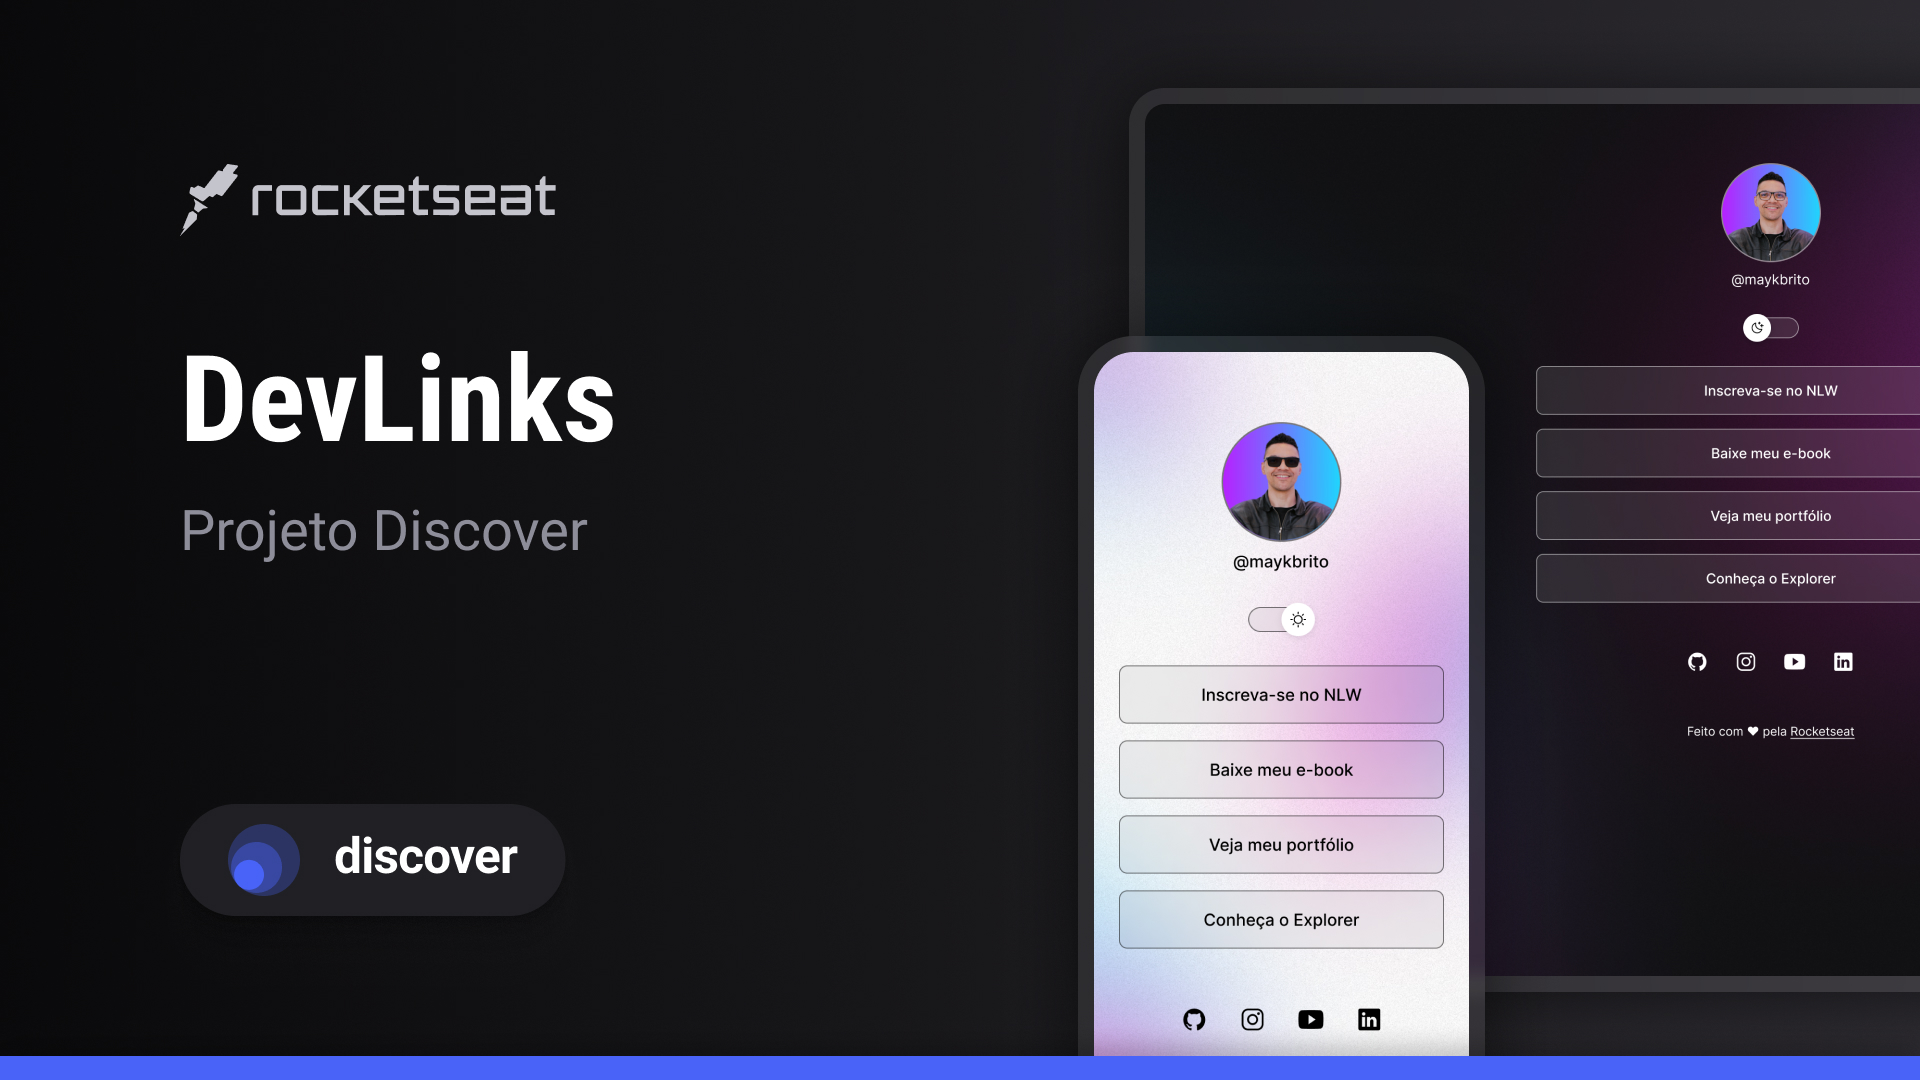
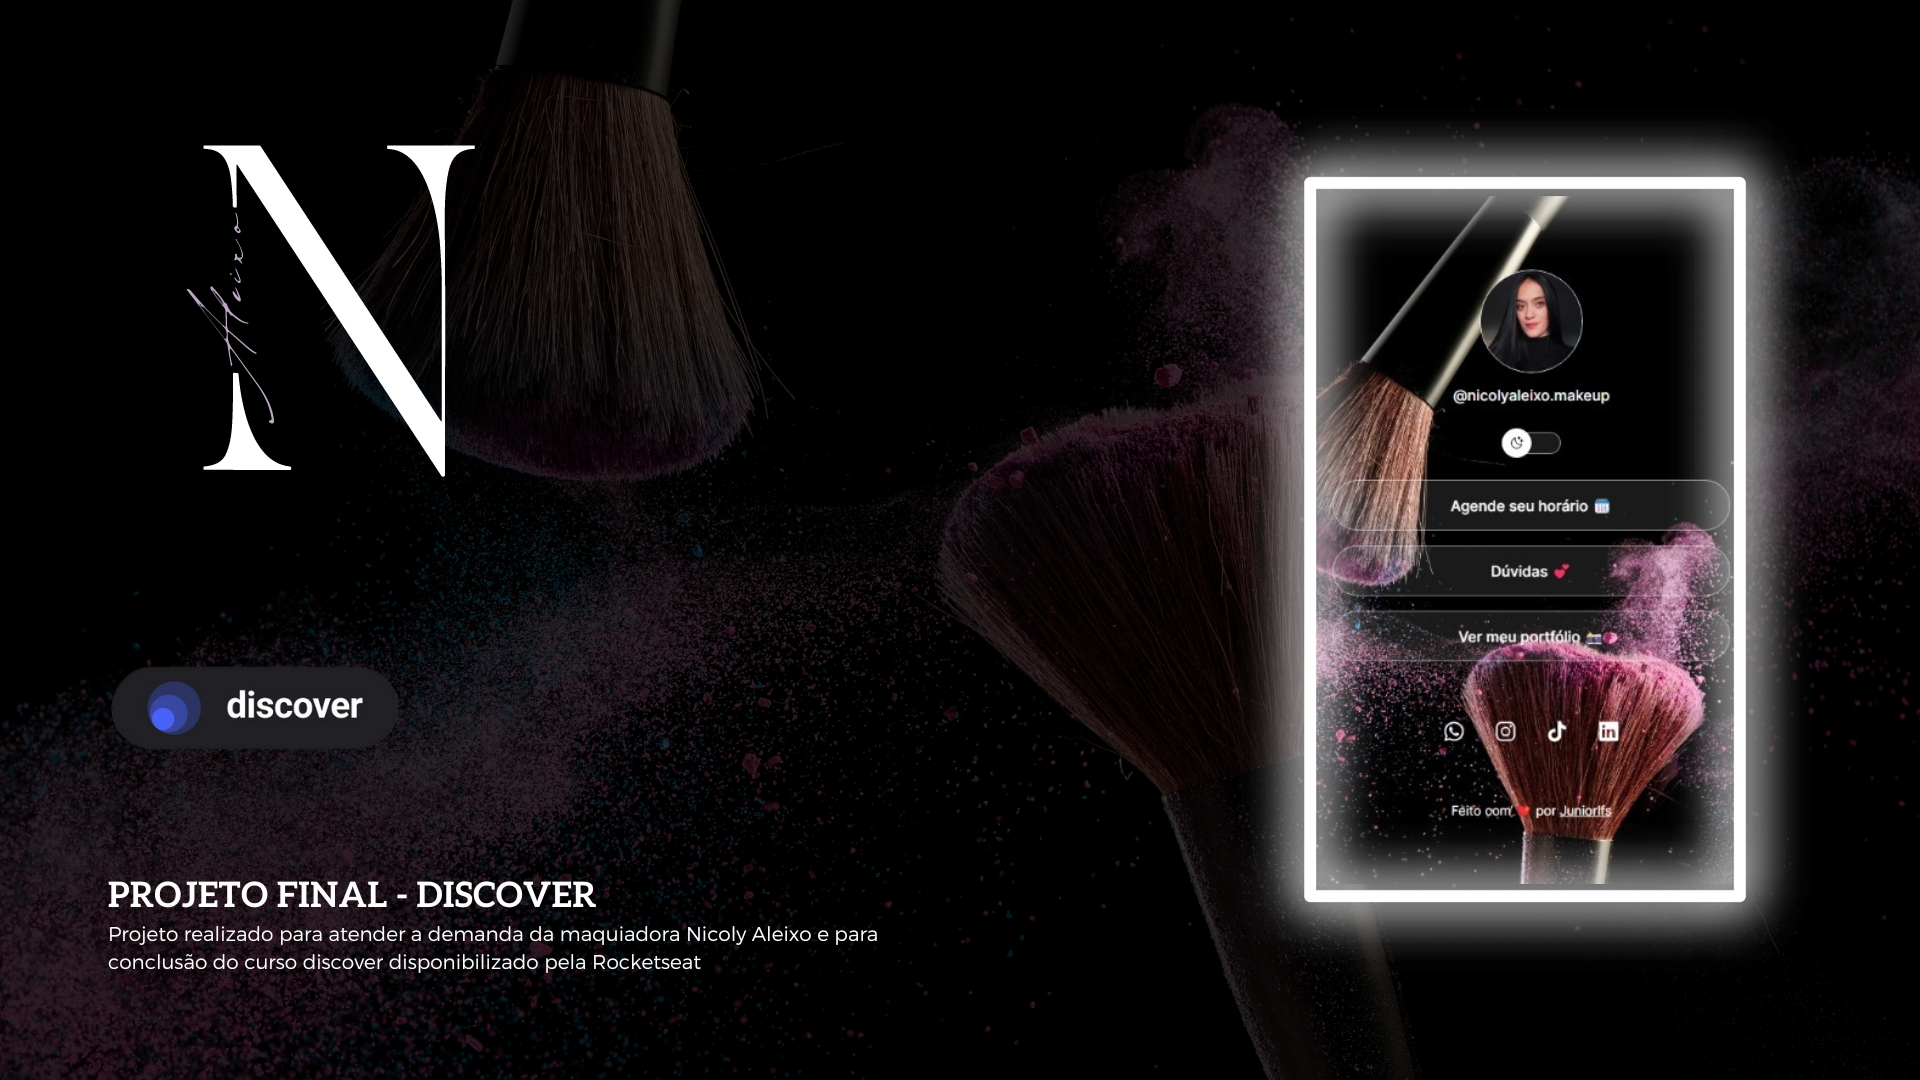
Final project

diff --git a/index.html b/index.html
@@ -17,7 +17,7 @@
     <div id="container">
       <div id="profile">
         <img src="./assets/avatar.jpg" alt="Foto de Nicoly Aleixo" />
-        <p>@maykbrito</p>
+        <p>@nicolyaleixo.makeup</p>
       </div>
 
       <div id="switch" onclick="toggleMode()">
@@ -26,18 +26,13 @@
       </div>
       <ul>
         <li>
-          <a href="#">Inscrever-se no NLW</a>
+          <a href="https://forms.bluecatreports.com/oKZVVBMo/agendamentos">Agende seu horário 🗓</a>
         </li>
         <li>
-          <a href="#">Baixar meu e-book</a>
+          <a href="https://wa.me/+5541998777835/?text=Tenho%20algumas%20dúvidas%20poderia%20me%20auxiliar?">Dúvidas 💕</a>
         </li>
         <li>
-          <a href="#">Ver meu portfólio</a>
-        </li>
-        <li>
-          <a href="https://rocketseat.com.br/explorer" target="_blank"
-            >Conheça o explorer</a
-          >
+          <a href="https://www.instagram.com/nicolyaleixo.makeup/">Ver meu portfólio 📸</a>
         </li>
       </ul>
       <div id="social-links">

diff --git a/README.md b/README.md
@@ -1,13 +1,12 @@
-<h1 align="center"> DevLinks </h1>
+<h1 align="center"> Projeto final - Discover </h1>
 
 <p align="center">
-Programa exclusivo e gratuito, promovido pela Rocketseat para ensino de tecnologias WEB.
+Projeto de conclusão do curso promovido pela Rocketseat para ensino de tecnologias WEB.
 </p>
 
 <p align="center">
   <a href="#-tecnologias">Tecnologias</a>&nbsp;&nbsp;&nbsp;|&nbsp;&nbsp;&nbsp;
   <a href="#-projeto">Projeto</a>&nbsp;&nbsp;&nbsp;|&nbsp;&nbsp;&nbsp;
-  <a href="#-layout">Layout</a>&nbsp;&nbsp;&nbsp;|&nbsp;&nbsp;&nbsp;
   <a href="#memo-licença">Licença</a>
 </p>
 
@@ -28,15 +27,10 @@ Esse projeto foi desenvolvido com as seguintes tecnologias:
 - HTML e CSS
 - JavaScript
 - Git e Github
-- Figma
 
 ## 💻 Projeto
 
-O DevLinks é um agregador de links para usar como cartão de visitas online.
-
-## 🔖 Layout
-
-Você pode visualizar o layout do projeto através [DESSE LINK](https://www.figma.com/community/file/1187422022288947321/devlinks-projeto-discover). É necessário ter conta no [Figma](https://figma.com) para acessá-lo.
+Agregador de links para a maquiadora Nicoly Aleixo "❤💍" usar como um cartão de visitas online.
 
 ## :memo: Licença
 
@@ -44,4 +38,4 @@ Esse projeto está sob a licença MIT.
 
 ---
 
-Feito com ♥ by Rocketseat :wave: [Participe da nossa comunidade!](https://discord.gg/rocketseat)
+Feito com ❤ by Juniorlfs :wave: [Entre em contato!](https://wa.me/+5541985171885)
